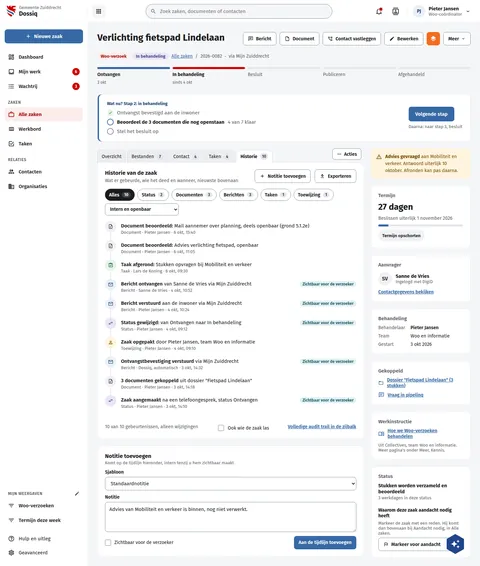
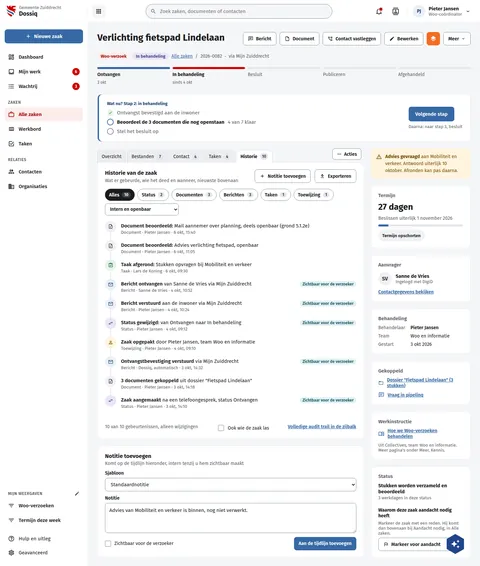
fix(screens): DqZaakTaken draws Toevoegen and the task menu; DqZaakHistorie's note subtitle as the rest
DqZaakTaken:
- "Wat hierna komt" draws "+ Toevoegen" (40px), as Incidenten does on the
  same board and as live has it, instead of an Acties menu.
- The open task's row draws its "…" task menu beside Afronden. Users keep
  that menu, and without it the board's columns are not live's.

DqZaakHistorie: "Notitie toevoegen" sets its subtitle 14px, 3px under the
title, as the history card above it and 55 of 61 Dq subtitles do.

Assisted-by: ClaudeCode:claude-opus-5-5

Changed region(s): [[0.2188, 0.811, 0.5312, 0.9011], [0.5938, 0.9311, 0.75, 0.9912], [0.2188, 0.9311, 0.375, 0.9611]]

diff --git a/preview/screens/boards/DqZaakHistorie.html b/preview/screens/boards/DqZaakHistorie.html
@@ -367,7 +367,7 @@ a{color:var(--sc-primary, #3669a5)}a:hover{color:var(--sc-primary-deep, #234a78)
               </ol>
               <div style="display: flex; flex-wrap: wrap; justify-content: space-between; gap: 8px; padding-top: 12px; border-top: 1px solid var(--sc-work-soft, #eef0f3); font-size: 14px; color: var(--sc-work-muted, #5e6168)"><span>10 van 10 gebeurtenissen, alleen wijzigingen</span><label style="display: inline-flex; gap: 8px; align-items: center; color: var(--sc-work-ink, #1b1c1d)"><input type="checkbox" style="width: 18px; height: 18px; accent-color: var(--sc-primary, #3669a5)">Ook wie de zaak las</label><a href="#" style="font-weight: 600">Volledige audit trail in de zijbalk</a></div>
             </section>
-<section style="background: #ffffff; border: 1px solid var(--sc-work-line, #e4e6ea); border-radius: 12px; padding: 20px 22px; display: flex; flex-direction: column; gap: 12px"><div style="display: flex; flex-wrap: wrap; justify-content: space-between; align-items: flex-start; gap: 10px"><div style="display: flex; flex-direction: column; gap: 2px; min-width: 0"><h2 style="margin: 0; font-size: 17px; font-weight: 700">Notitie toevoegen</h2><span style="font-size: 13px; color: var(--sc-work-muted, #5e6168)">Komt op de tijdlijn hieronder, intern tenzij u hem zichtbaar maakt</span></div></div><div style="display: flex; flex-direction: column; gap: 6px; min-width: 0"><label for="hn1" style="font-size: 14px; font-weight: 600">Sjabloon</label><select id="hn1" style="box-sizing: border-box; width: 100%; height: 40px; padding: 0 12px; border: 1px solid var(--sc-work-field, #828a95); border-radius: 8px; background: #ffffff; font: 400 15px var(--sc-font, 'Fira Sans'), sans-serif; color: var(--sc-work-ink, #1b1c1d)"><option selected>Standaardnotitie</option><option>Telefoonnotitie</option><option>Overleg</option></select></div><div style="display: flex; flex-direction: column; gap: 6px; min-width: 0"><label for="hn2" style="font-size: 14px; font-weight: 600">Notitie</label><textarea id="hn2" rows="3" style="box-sizing: border-box; width: 100%; padding: 10px 12px; border: 1px solid var(--sc-work-field, #828a95); border-radius: 8px; background: #ffffff; font: 400 15px var(--sc-font, 'Fira Sans'), sans-serif; color: var(--sc-work-ink, #1b1c1d); line-height: 1.5; resize: vertical">Advies van Mobiliteit en verkeer is binnen, nog niet verwerkt.</textarea></div><div style="display: flex; flex-wrap: wrap; justify-content: space-between; align-items: center; gap: 10px"><label style="display: flex; gap: 10px; align-items: center; font-size: 14px; cursor: pointer"><input type="checkbox" style="width: 18px; height: 18px; margin: 0; accent-color: var(--sc-primary, #3669a5)">Zichtbaar voor de verzoeker</label><button type="button" style="display: inline-flex; align-items: center; gap: 8px; height: 40px; padding: 0 14px; border-radius: 8px; border: 0; background: var(--sc-primary, #3669a5); color: #ffffff; font: 600 14px var(--sc-font, 'Fira Sans'), sans-serif; white-space: nowrap">Aan de tijdlijn toevoegen</button></div></section>
+<section style="background: #ffffff; border: 1px solid var(--sc-work-line, #e4e6ea); border-radius: 12px; padding: 20px 22px; display: flex; flex-direction: column; gap: 12px"><div style="display: flex; flex-wrap: wrap; justify-content: space-between; align-items: flex-start; gap: 10px"><div style="display: flex; flex-direction: column; gap: 3px; min-width: 0"><h2 style="margin: 0; font-size: 17px; font-weight: 700">Notitie toevoegen</h2><span style="font-size: 14px; color: var(--sc-work-muted, #5e6168)">Komt op de tijdlijn hieronder, intern tenzij u hem zichtbaar maakt</span></div></div><div style="display: flex; flex-direction: column; gap: 6px; min-width: 0"><label for="hn1" style="font-size: 14px; font-weight: 600">Sjabloon</label><select id="hn1" style="box-sizing: border-box; width: 100%; height: 40px; padding: 0 12px; border: 1px solid var(--sc-work-field, #828a95); border-radius: 8px; background: #ffffff; font: 400 15px var(--sc-font, 'Fira Sans'), sans-serif; color: var(--sc-work-ink, #1b1c1d)"><option selected>Standaardnotitie</option><option>Telefoonnotitie</option><option>Overleg</option></select></div><div style="display: flex; flex-direction: column; gap: 6px; min-width: 0"><label for="hn2" style="font-size: 14px; font-weight: 600">Notitie</label><textarea id="hn2" rows="3" style="box-sizing: border-box; width: 100%; padding: 10px 12px; border: 1px solid var(--sc-work-field, #828a95); border-radius: 8px; background: #ffffff; font: 400 15px var(--sc-font, 'Fira Sans'), sans-serif; color: var(--sc-work-ink, #1b1c1d); line-height: 1.5; resize: vertical">Advies van Mobiliteit en verkeer is binnen, nog niet verwerkt.</textarea></div><div style="display: flex; flex-wrap: wrap; justify-content: space-between; align-items: center; gap: 10px"><label style="display: flex; gap: 10px; align-items: center; font-size: 14px; cursor: pointer"><input type="checkbox" style="width: 18px; height: 18px; margin: 0; accent-color: var(--sc-primary, #3669a5)">Zichtbaar voor de verzoeker</label><button type="button" style="display: inline-flex; align-items: center; gap: 8px; height: 40px; padding: 0 14px; border-radius: 8px; border: 0; background: var(--sc-primary, #3669a5); color: #ffffff; font: 600 14px var(--sc-font, 'Fira Sans'), sans-serif; white-space: nowrap">Aan de tijdlijn toevoegen</button></div></section>
           </div>
 
           <aside style="flex: 1 1 300px; min-width: 0; display: flex; flex-direction: column; gap: 20px">

diff --git a/preview/screens/boards/DqZaakTaken.html b/preview/screens/boards/DqZaakTaken.html
@@ -251,7 +251,7 @@ a{color:var(--sc-primary, #3669a5)}a:hover{color:var(--sc-primary-deep, #234a78)
                         <td style="padding: 14px 12px"><span style="display: flex; align-items: center; gap: 8px; white-space: nowrap"><span style="width: 28px; height: 28px; border-radius: 14px; font-size: 12px; font-weight: 700; display: flex; align-items: center; justify-content: center; background: var(--sc-primary-light, #eaf0f7); color: var(--sc-primary-deep, #234a78)">PJ</span>Pieter Jansen</span></td>
                         <td style="padding: 14px 12px; white-space: nowrap"><span style="font-weight: 600; color: #7a4f00">18 okt</span></td>
                         <td style="padding: 14px 12px"><span style="display: inline-block; padding: 3px 10px; border-radius: 12px; font-size: 13px; font-weight: 600; white-space: nowrap; background: #e8e6f6; color: #4a3f8f">In behandeling</span></td>
-                        <td style="padding: 14px 22px 14px 12px; text-align: right"><button type="button" style="height: 34px; padding: 0 14px; border: 1px solid var(--sc-work-field, #828a95); border-radius: 8px; background: #ffffff; font: 600 13px var(--sc-font, 'Fira Sans'), sans-serif; color: var(--sc-work-ink, #1b1c1d); white-space: nowrap">Afronden</button></td>
+                        <td style="padding: 14px 22px 14px 12px; text-align: right"><button type="button" style="height: 34px; padding: 0 14px; border: 1px solid var(--sc-work-field, #828a95); border-radius: 8px; background: #ffffff; font: 600 13px var(--sc-font, 'Fira Sans'), sans-serif; color: var(--sc-work-ink, #1b1c1d); white-space: nowrap">Afronden</button><button type="button" aria-label="Taakacties" style="width: 34px; height: 34px; margin-left: 4px; display: inline-flex; vertical-align: middle; align-items: center; justify-content: center; border: 0; border-radius: 8px; background: transparent; color: var(--sc-primary, #3669a5)"><svg width="18" height="18" viewbox="0 0 24 24" fill="currentColor" aria-hidden="true"><path d="M16,12A2,2 0 0,1 18,10A2,2 0 0,1 20,12A2,2 0 0,1 18,14A2,2 0 0,1 16,12M10,12A2,2 0 0,1 12,10A2,2 0 0,1 14,12A2,2 0 0,1 12,14A2,2 0 0,1 10,12M4,12A2,2 0 0,1 6,10A2,2 0 0,1 8,12A2,2 0 0,1 6,14A2,2 0 0,1 4,12Z"></path></svg></button></td>
                       </tr>
                     
                       <tr style="border-top: 1px solid var(--sc-work-soft, #eef0f3); background: #fafbfc; color: var(--sc-work-muted, #5e6168)">
@@ -284,7 +284,7 @@ a{color:var(--sc-primary, #3669a5)}a:hover{color:var(--sc-primary-deep, #234a78)
               <div style="padding: 4px 22px 8px; font-size: 14px"><a href="#" style="font-weight: 600">Alle taken van deze zaak in Taken</a></div>
             </section>
             <section style="background: #ffffff; border: 1px solid var(--sc-work-line, #e4e6ea); border-radius: 12px; padding: 20px 22px 8px; display: flex; flex-direction: column; gap: 4px">
-              <div style="display: flex; justify-content: space-between; align-items: center; gap: 12px; margin-bottom: 8px"><h2 style="margin: 0; font-size: 17px; font-weight: 700">Wat hierna komt</h2><span style="display: inline-flex; align-items: center; gap: 12px"><span style="font-size: 14px; color: var(--sc-work-muted, #5e6168)">2 gepland</span><button type="button" aria-haspopup="menu" style="flex: none; display: inline-flex; align-items: center; gap: 6px; min-height: 34px; padding: 0 12px; border: 1px solid var(--sc-work-field, #828a95); border-radius: 8px; background: #ffffff; font: 600 14px var(--sc-font, 'Fira Sans'), sans-serif; color: var(--sc-work-ink, #1b1c1d)"><svg width="16" height="16" viewbox="0 0 24 24" fill="currentColor" aria-hidden="true"><path d="M16,12A2,2 0 0,1 18,10A2,2 0 0,1 20,12A2,2 0 0,1 18,14A2,2 0 0,1 16,12M10,12A2,2 0 0,1 12,10A2,2 0 0,1 14,12A2,2 0 0,1 12,14A2,2 0 0,1 10,12M4,12A2,2 0 0,1 6,10A2,2 0 0,1 8,12A2,2 0 0,1 6,14A2,2 0 0,1 4,12Z"></path></svg>Acties</button></span></div>
+              <div style="display: flex; justify-content: space-between; align-items: center; gap: 12px; margin-bottom: 8px"><h2 style="margin: 0; font-size: 17px; font-weight: 700">Wat hierna komt</h2><span style="display: inline-flex; align-items: center; gap: 12px"><span style="font-size: 14px; color: var(--sc-work-muted, #5e6168)">2 gepland</span><button type="button" style="flex: none; display: inline-flex; align-items: center; gap: 8px; height: 40px; padding: 0 14px; border: 1px solid var(--sc-work-field, #828a95); border-radius: 8px; background: #ffffff; font: 600 14px var(--sc-font, 'Fira Sans'), sans-serif; color: var(--sc-work-ink, #1b1c1d)"><svg width="16" height="16" viewbox="0 0 24 24" fill="currentColor" aria-hidden="true"><path d="M19,13H13V19H11V13H5V11H11V5H13V11H19V13Z"></path></svg>Toevoegen</button></span></div>
               
                 <div style="display: flex; flex-wrap: wrap; gap: 8px 16px; align-items: center; padding: 12px 0; border-top: 1px solid var(--sc-work-soft, #eef0f3)">
                   <span style="width: 36px; height: 36px; flex: none; border-radius: 18px; background: var(--sc-work-chip, #f0f1f3); color: var(--sc-work-text, #3d4047); display: flex; align-items: center; justify-content: center"><svg width="18" height="18" viewbox="0 0 24 24" fill="currentColor" aria-hidden="true"><path d="M12 12H17V17H12V12M19 3H18V1H16V3H8V1H6V3H5C3.9 3 3 3.9 3 5V19C3 20.1 3.9 21 5 21H19C20.1 21 21 20.1 21 19V5C21 3.9 20.1 3 19 3M19 5V7H5V5H19M5 19V9H19V19H5Z"></path></svg></span>

diff --git a/screens-src/zuiddrecht/DqZaakHistorie.dc.html b/screens-src/zuiddrecht/DqZaakHistorie.dc.html
@@ -108,7 +108,7 @@ a{color:#3669a5}a:hover{color:#234a78}
               </ol>
               <div style="display: flex; flex-wrap: wrap; justify-content: space-between; gap: 8px; padding-top: 12px; border-top: 1px solid #eef0f3; font-size: 14px; color: #5e6168"><span>10 van 10 gebeurtenissen, alleen wijzigingen</span><label style="display: inline-flex; gap: 8px; align-items: center; color: #1b1c1d"><input type="checkbox" style="width: 18px; height: 18px; accent-color: #3669a5">Ook wie de zaak las</label><a href="#" style="font-weight: 600">Volledige audit trail in de zijbalk</a></div>
             </section>
-<section style="background: #ffffff; border: 1px solid #e4e6ea; border-radius: 12px; padding: 20px 22px; display: flex; flex-direction: column; gap: 12px"><div style="display: flex; flex-wrap: wrap; justify-content: space-between; align-items: flex-start; gap: 10px"><div style="display: flex; flex-direction: column; gap: 2px; min-width: 0"><h2 style="margin: 0; font-size: 17px; font-weight: 700">Notitie toevoegen</h2><span style="font-size: 13px; color: #5e6168">Komt op de tijdlijn hieronder, intern tenzij u hem zichtbaar maakt</span></div></div><div style="display: flex; flex-direction: column; gap: 6px; min-width: 0"><label for="hn1" style="font-size: 14px; font-weight: 600">Sjabloon</label><select id="hn1" style="box-sizing: border-box; width: 100%; height: 40px; padding: 0 12px; border: 1px solid #828a95; border-radius: 8px; background: #ffffff; font: 400 15px 'Fira Sans', sans-serif; color: #1b1c1d"><option selected>Standaardnotitie</option><option>Telefoonnotitie</option><option>Overleg</option></select></div><div style="display: flex; flex-direction: column; gap: 6px; min-width: 0"><label for="hn2" style="font-size: 14px; font-weight: 600">Notitie</label><textarea id="hn2" rows="3" style="box-sizing: border-box; width: 100%; padding: 10px 12px; border: 1px solid #828a95; border-radius: 8px; background: #ffffff; font: 400 15px 'Fira Sans', sans-serif; color: #1b1c1d; line-height: 1.5; resize: vertical">Advies van Mobiliteit en verkeer is binnen, nog niet verwerkt.</textarea></div><div style="display: flex; flex-wrap: wrap; justify-content: space-between; align-items: center; gap: 10px"><label style="display: flex; gap: 10px; align-items: center; font-size: 14px; cursor: pointer"><input type="checkbox" style="width: 18px; height: 18px; margin: 0; accent-color: #3669a5">Zichtbaar voor de verzoeker</label><button type="button" style="display: inline-flex; align-items: center; gap: 8px; height: 40px; padding: 0 14px; border-radius: 8px; border: 0; background: #3669a5; color: #ffffff; font: 600 14px 'Fira Sans', sans-serif; white-space: nowrap">Aan de tijdlijn toevoegen</button></div></section>
+<section style="background: #ffffff; border: 1px solid #e4e6ea; border-radius: 12px; padding: 20px 22px; display: flex; flex-direction: column; gap: 12px"><div style="display: flex; flex-wrap: wrap; justify-content: space-between; align-items: flex-start; gap: 10px"><div style="display: flex; flex-direction: column; gap: 3px; min-width: 0"><h2 style="margin: 0; font-size: 17px; font-weight: 700">Notitie toevoegen</h2><span style="font-size: 14px; color: #5e6168">Komt op de tijdlijn hieronder, intern tenzij u hem zichtbaar maakt</span></div></div><div style="display: flex; flex-direction: column; gap: 6px; min-width: 0"><label for="hn1" style="font-size: 14px; font-weight: 600">Sjabloon</label><select id="hn1" style="box-sizing: border-box; width: 100%; height: 40px; padding: 0 12px; border: 1px solid #828a95; border-radius: 8px; background: #ffffff; font: 400 15px 'Fira Sans', sans-serif; color: #1b1c1d"><option selected>Standaardnotitie</option><option>Telefoonnotitie</option><option>Overleg</option></select></div><div style="display: flex; flex-direction: column; gap: 6px; min-width: 0"><label for="hn2" style="font-size: 14px; font-weight: 600">Notitie</label><textarea id="hn2" rows="3" style="box-sizing: border-box; width: 100%; padding: 10px 12px; border: 1px solid #828a95; border-radius: 8px; background: #ffffff; font: 400 15px 'Fira Sans', sans-serif; color: #1b1c1d; line-height: 1.5; resize: vertical">Advies van Mobiliteit en verkeer is binnen, nog niet verwerkt.</textarea></div><div style="display: flex; flex-wrap: wrap; justify-content: space-between; align-items: center; gap: 10px"><label style="display: flex; gap: 10px; align-items: center; font-size: 14px; cursor: pointer"><input type="checkbox" style="width: 18px; height: 18px; margin: 0; accent-color: #3669a5">Zichtbaar voor de verzoeker</label><button type="button" style="display: inline-flex; align-items: center; gap: 8px; height: 40px; padding: 0 14px; border-radius: 8px; border: 0; background: #3669a5; color: #ffffff; font: 600 14px 'Fira Sans', sans-serif; white-space: nowrap">Aan de tijdlijn toevoegen</button></div></section>
           </div>
 
           <aside style="flex: 1 1 300px; min-width: 0; display: flex; flex-direction: column; gap: 20px">

diff --git a/screens-src/zuiddrecht/DqZaakTaken.dc.html b/screens-src/zuiddrecht/DqZaakTaken.dc.html
@@ -101,7 +101,7 @@ a{color:#3669a5}a:hover{color:#234a78}
                         <td style="padding: 14px 12px"><span style="display: flex; align-items: center; gap: 8px; white-space: nowrap"><span style="{{ t.avatar }}">{{ t.initials }}</span>{{ t.owner }}</span></td>
                         <td style="padding: 14px 12px; white-space: nowrap"><span style="{{ t.dueStyle }}">{{ t.due }}</span></td>
                         <td style="padding: 14px 12px"><span style="{{ t.pill }}">{{ t.status }}</span></td>
-                        <td style="padding: 14px 22px 14px 12px; text-align: right"><sc-if value="{{ t.open }}" hint-placeholder-val="{{ false }}"><button type="button" style="height: 34px; padding: 0 14px; border: 1px solid #828a95; border-radius: 8px; background: #ffffff; font: 600 13px 'Fira Sans', sans-serif; color: #1b1c1d; white-space: nowrap">Afronden</button></sc-if></td>
+                        <td style="padding: 14px 22px 14px 12px; text-align: right"><sc-if value="{{ t.open }}" hint-placeholder-val="{{ false }}"><button type="button" style="height: 34px; padding: 0 14px; border: 1px solid #828a95; border-radius: 8px; background: #ffffff; font: 600 13px 'Fira Sans', sans-serif; color: #1b1c1d; white-space: nowrap">Afronden</button><button type="button" aria-label="Taakacties" style="width: 34px; height: 34px; margin-left: 4px; display: inline-flex; vertical-align: middle; align-items: center; justify-content: center; border: 0; border-radius: 8px; background: transparent; color: #3669a5"><svg width="18" height="18" viewBox="0 0 24 24" fill="currentColor" aria-hidden="true"><path d="M16,12A2,2 0 0,1 18,10A2,2 0 0,1 20,12A2,2 0 0,1 18,14A2,2 0 0,1 16,12M10,12A2,2 0 0,1 12,10A2,2 0 0,1 14,12A2,2 0 0,1 12,14A2,2 0 0,1 10,12M4,12A2,2 0 0,1 6,10A2,2 0 0,1 8,12A2,2 0 0,1 6,14A2,2 0 0,1 4,12Z"></path></svg></button></sc-if></td>
                       </tr>
                     </sc-for>
                   </tbody>
@@ -110,7 +110,7 @@ a{color:#3669a5}a:hover{color:#234a78}
               <div style="padding: 4px 22px 8px; font-size: 14px"><a href="#" style="font-weight: 600">Alle taken van deze zaak in Taken</a></div>
             </section>
             <section style="background: #ffffff; border: 1px solid #e4e6ea; border-radius: 12px; padding: 20px 22px 8px; display: flex; flex-direction: column; gap: 4px">
-              <div style="display: flex; justify-content: space-between; align-items: center; gap: 12px; margin-bottom: 8px"><h2 style="margin: 0; font-size: 17px; font-weight: 700">Wat hierna komt</h2><span style="display: inline-flex; align-items: center; gap: 12px"><span style="font-size: 14px; color: #5e6168">2 gepland</span><button type="button" aria-haspopup="menu" style="flex: none; display: inline-flex; align-items: center; gap: 6px; min-height: 34px; padding: 0 12px; border: 1px solid #828a95; border-radius: 8px; background: #ffffff; font: 600 14px 'Fira Sans', sans-serif; color: #1b1c1d"><svg width="16" height="16" viewBox="0 0 24 24" fill="currentColor" aria-hidden="true"><path d="M16,12A2,2 0 0,1 18,10A2,2 0 0,1 20,12A2,2 0 0,1 18,14A2,2 0 0,1 16,12M10,12A2,2 0 0,1 12,10A2,2 0 0,1 14,12A2,2 0 0,1 12,14A2,2 0 0,1 10,12M4,12A2,2 0 0,1 6,10A2,2 0 0,1 8,12A2,2 0 0,1 6,14A2,2 0 0,1 4,12Z"></path></svg>Acties</button></span></div>
+              <div style="display: flex; justify-content: space-between; align-items: center; gap: 12px; margin-bottom: 8px"><h2 style="margin: 0; font-size: 17px; font-weight: 700">Wat hierna komt</h2><span style="display: inline-flex; align-items: center; gap: 12px"><span style="font-size: 14px; color: #5e6168">2 gepland</span><button type="button" style="flex: none; display: inline-flex; align-items: center; gap: 8px; height: 40px; padding: 0 14px; border: 1px solid #828a95; border-radius: 8px; background: #ffffff; font: 600 14px 'Fira Sans', sans-serif; color: #1b1c1d"><svg width="16" height="16" viewBox="0 0 24 24" fill="currentColor" aria-hidden="true"><path d="M19,13H13V19H11V13H5V11H11V5H13V11H19V13Z"></path></svg>Toevoegen</button></span></div>
               <sc-for list="{{ planned }}" as="p" hint-placeholder-count="2">
                 <div style="display: flex; flex-wrap: wrap; gap: 8px 16px; align-items: center; padding: 12px 0; border-top: 1px solid #eef0f3">
                   <span style="width: 36px; height: 36px; flex: none; border-radius: 18px; background: #f0f1f3; color: #3d4047; display: flex; align-items: center; justify-content: center"><svg width="18" height="18" viewBox="0 0 24 24" fill="currentColor" aria-hidden="true"><path d="M12 12H17V17H12V12M19 3H18V1H16V3H8V1H6V3H5C3.9 3 3 3.9 3 5V19C3 20.1 3.9 21 5 21H19C20.1 21 21 20.1 21 19V5C21 3.9 20.1 3 19 3M19 5V7H5V5H19M5 19V9H19V19H5Z"></path></svg></span>
